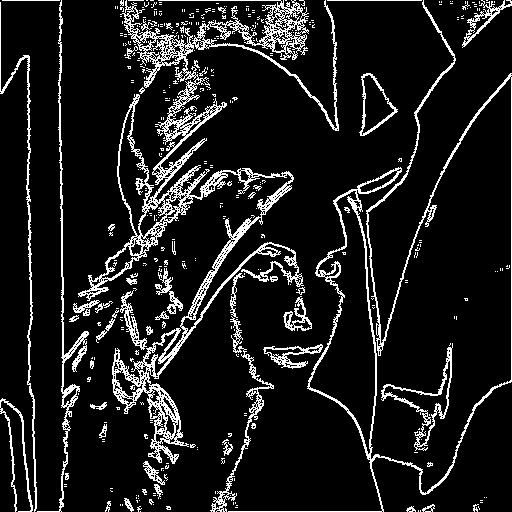
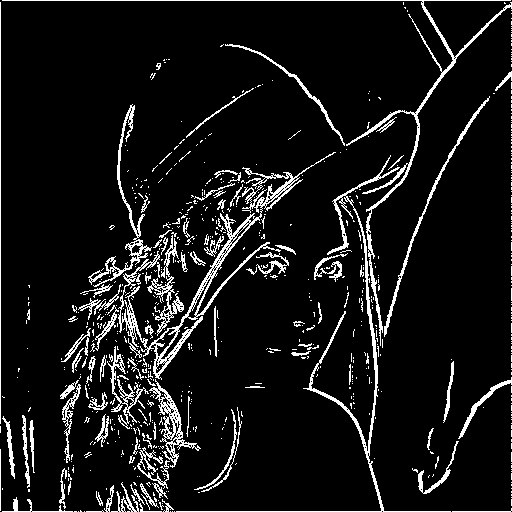
update & submit

diff --git a/cv_homework2/src/extract.cpp b/cv_homework2/src/extract.cpp
@@ -34,24 +34,25 @@ void Image2D::SetKernel()
 void Image2D::MeanFilter()
 {
   std::vector<std::vector<int>> tmp_img(img_);
-  int dx[] = {-1, -1, 0, 1, 1, 1, 0, -1};
-  int dy[] = {0, 1, 1, 1, 0, -1, -1, -1};
   for (int x = 0; x < height; x++)
   {
     for (int y = 0; y < width; y++)
     {
       float avg = 0;
       int cnt = 0;
-      for (int i = 0;i < 8;i ++) {
-        int u = x + i;
-        int v = y + j;
-        if (u >= 0 && u < height && v >= 0 && v < width)
+      for (int i = -1; i <= 1; i++)
+      {
+        for (int j = -1; j <= 1; j++)
         {
-          avg += 1.0 * tmp_img[u][v] * kernel_[dx[i] + 1][dy[i] + 1];
-          cnt++;
+          int u = x + i;
+          int v = y + j;
+          if (u >= 0 && u < height && v >= 0 && v < width)
+          {
+            avg += 1.0 * tmp_img[u][v] * kernel_[i + 1][j + 1];
+            cnt++;
+          }
         }
       }
-      
       img_[x][y] = static_cast<int>(avg / cnt);
     }
   }
@@ -175,6 +176,8 @@ void Image2D::ComputeOutline()
   std::queue<std::pair<int, int>> q;
   std::vector<std::vector<bool>> vis(height, std::vector<bool>(width, false));
 
+  int dx[] = {-1, -1, 0, 1, 1, 1, 0, -1};
+  int dy[] = {0, 1, 1, 1, 0, -1, -1, -1};
   for (int x = 0; x < height; x++)
   {
     for (int y = 0; y < width; y++)
@@ -188,21 +191,18 @@ void Image2D::ComputeOutline()
           auto t = q.front();
           q.pop();
           int u = t.first, v = t.second;
-          for (int i = -1; i <= 1; i++)
-          {
-            for (int j = -1; j <= 1; j++)
+          for (int i = 0;i < 8;i ++) {
+            int s = u + dx[i], t = v + dy[i];
+            if (s >= 0 && s < height && t >= 0 && t < width && !vis[s][t])
             {
-              int s = u + i, t = v + j;
-              if (s >= 0 && s < height && t >= 0 && t < width && !vis[s][t])
+              if (fabs(f_[x][y] - f_[s][t]) <= T_ && fabs(phi_[x][y] - phi_[s][t]) <= A_)
               {
-                if (fabs(f_[x][y] - f_[s][t]) <= T_ && fabs(phi_[x][y] - phi_[s][t]) <= A_)
-                {
-                  vis[s][t] = true;
-                  q.push({s, t});
-                  outline_[s][t] = f_[x][y];
-                }
+                vis[s][t] = true;
+                q.push({s, t});
+                outline_[s][t] = f_[x][y];
               }
             }
+
           }
         }
       }

diff --git a/cv_homework2/src/visualize.py b/cv_homework2/src/visualize.py
@@ -78,8 +78,8 @@ def main():
     image = normalize_data(data, is_angle=args.angle)
     
     # 保存图像
-    # cv2.imwrite(args.output, image)
-    # print(f"图像已保存为 {args.output}")
+    cv2.imwrite(args.output, image)
+    print(f"图像已保存为 {args.output}")
     
     # 如果需要叠加轮廓到原图
     if args.overlay and args.original:

diff --git a/cv_homework2/src/main.cpp b/cv_homework2/src/main.cpp
@@ -6,6 +6,7 @@ int main(int argc, char *argv[])
   Image2D img;
   img.InitImg();
   img.ComputeOutline();
+  // img.ShowPhi(1);
   img.ShowOutline(); // 输出轮廓数据
   return 0;
 }

diff --git a/cv_homework2/README.md b/cv_homework2/README.md
@@ -54,11 +54,17 @@ cv_homework2/
 3. 使用`visualize.py`将处理结果转换回可视化图像
 4. 将轮廓叠加到原图并保存结果
 
-## 轮廓展示
+## 原始灰度图轮廓展示
 ![轮廓图](result_img/lena_Outline.png)
 
-## 叠加效果
+## 原始灰度图叠加效果
 ![叠加效果](result_img/lena_Overlay.png)
+
+## 二值化后轮廓
+![二值化轮廓图](result_img/2-lena_Outline.png)
+
+## 二值化后叠加效果
+![二值化叠加](result_img/2-lena_Overlay.png)
 
 ## 参数调整
 
